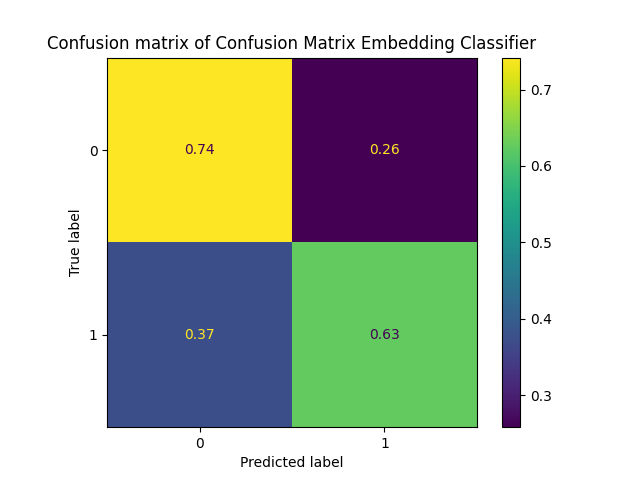
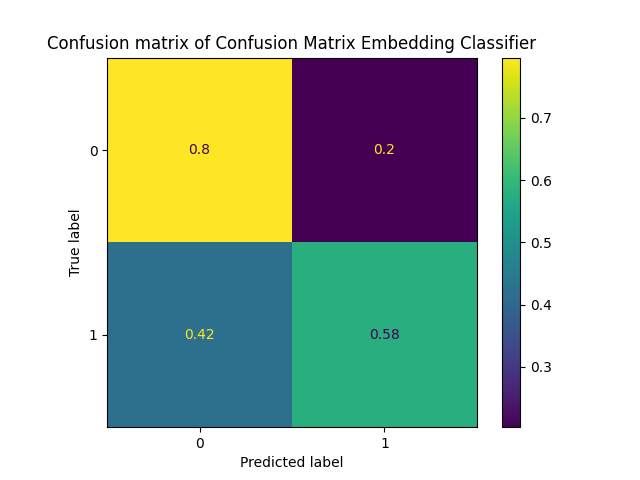
khih

diff --git a/Encoder_classifier/classifier.py b/Encoder_classifier/classifier.py
@@ -5,7 +5,7 @@ import torch.utils
 from torcheval.metrics.functional import binary_accuracy
 from torch.utils.data import DataLoader, TensorDataset
 
-torch.manual_seed(2)
+#torch.manual_seed(2)
 
 class ClassifierBinary(nn.Module):
     def __init__(self, inputSize:int) -> None:

diff --git a/Encoder_classifier/trainClassifier.py b/Encoder_classifier/trainClassifier.py
@@ -34,8 +34,8 @@ batch_size = 200
 learning_rate = 0.0001
 plot = True
 weight_decay = 0.5e-5
-num_epochs = 52
-loss_weight = (0.25, 0.7)
+num_epochs = 102
+loss_weight = (0.3, 0.7)
 patience = 5
 
 print(f'Number of binary columns: {binary_clumns}')
